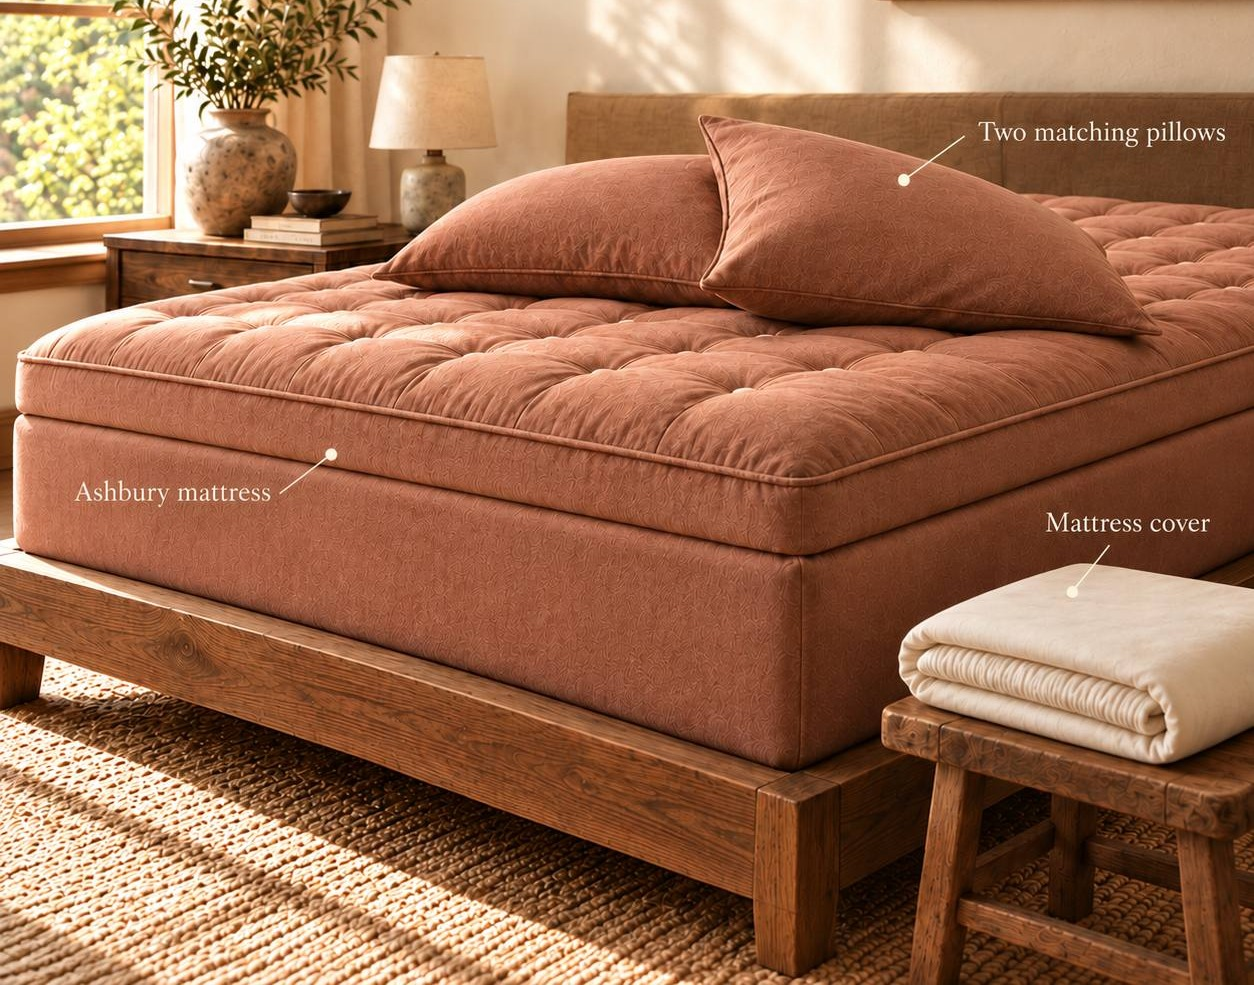
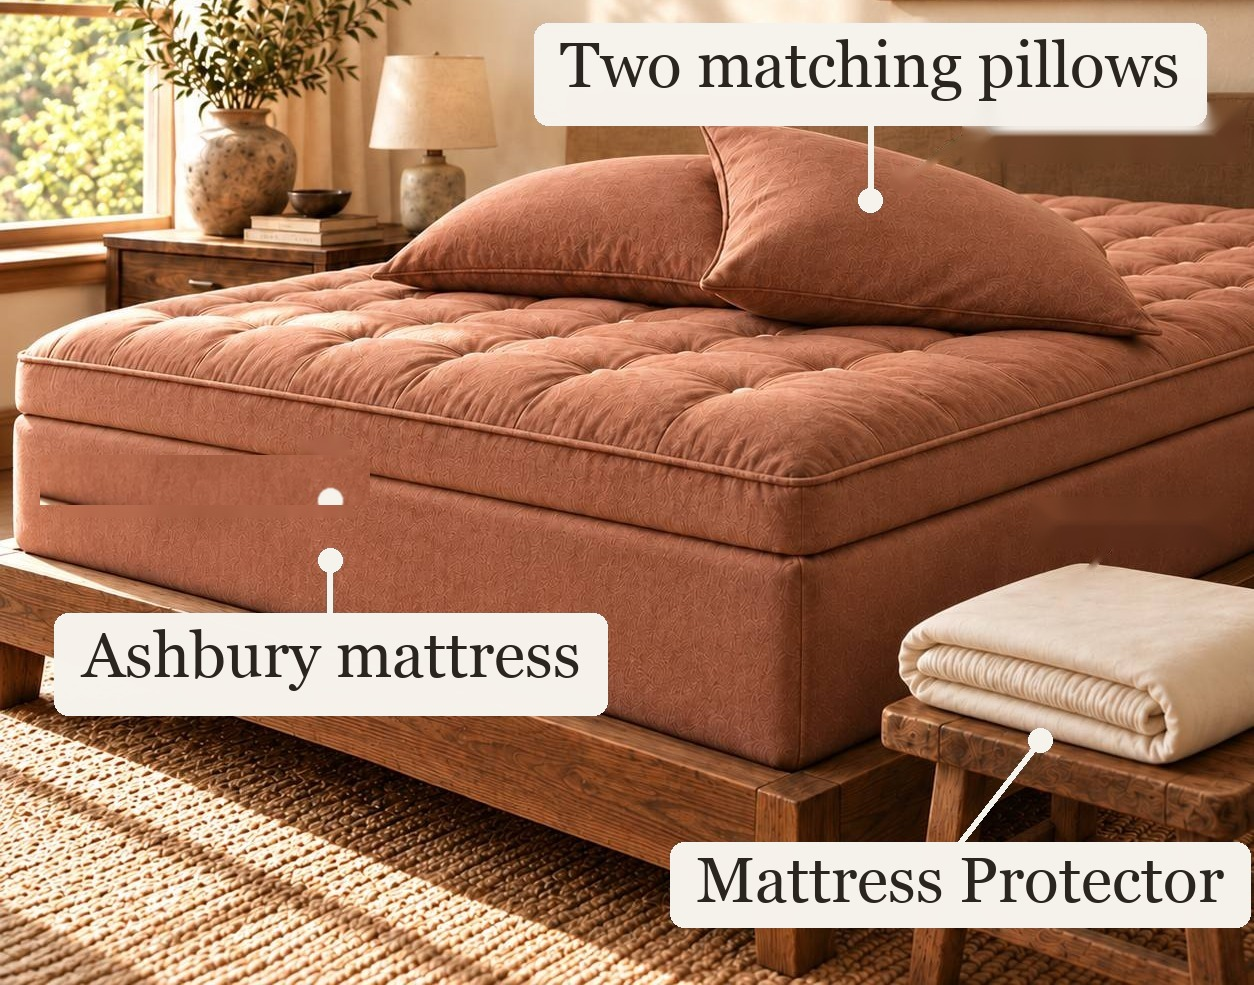
Sleep Suite photo: larger readable labels; bundle captions name pillows and Mattress Protector

diff --git a/app/black-friday/page.tsx b/app/black-friday/page.tsx
@@ -108,9 +108,9 @@ export default function BlackFridayPage() {
           <p className="bf-msub">Free white glove delivery for the mattress.</p>
           <div className="bf-rail bf-rail-b">
             <BundleCard href={BUNDLE.path} photo={BUNDLE_HERO.photo} alt={BUNDLE_HERO.alt} title={BUNDLE.title}
-              desc="Ashbury mattress, Ashbury Dog Bed and a bedding set." was={bfList} now={bfNow} />
+              desc="Ashbury mattress, Ashbury Dog Bed, and a bedding set of two pillows and a Mattress Protector." was={bfList} now={bfNow} />
             <BundleCard href={SLEEP_SUITE_PATH} photo="sleep-suite-hero" alt="The Complete Sleep Suite: an Ashbury mattress with a bedding set" title="The Complete Sleep Suite"
-              desc="Ashbury mattress and a bedding set." was={ssList} now={ssNow} />
+              desc="Ashbury mattress and a bedding set of two pillows and a Mattress Protector." was={ssList} now={ssNow} />
           </div>
         </section>
         <section className="bf-msec" id="m-gifts">
